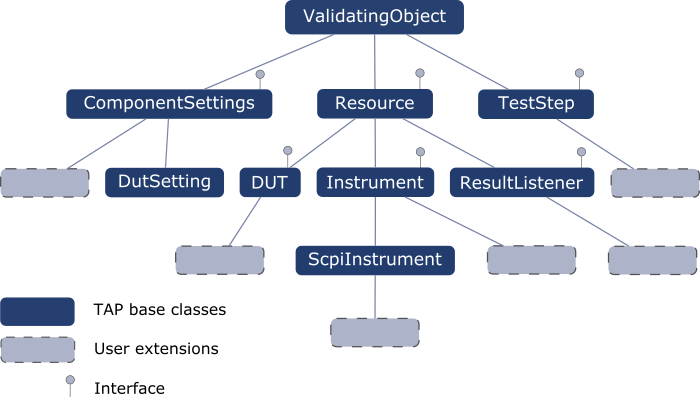
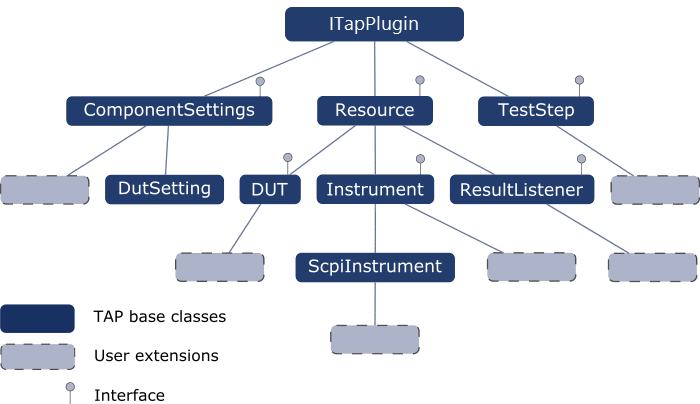
Moved plugin properties part to Development essentials

diff --git a/doc/Developer Guide/Development Essentials/Readme.md b/doc/Developer Guide/Development Essentials/Readme.md
@@ -3,17 +3,17 @@ Development Essentials
 
 ## OpenTAP Plugin Object Hierarchy
 
-At the very root of the OpenTAP plugin class hierarchy is the **ValidatingObject** class. Items in blue are OpenTAP base classes. The green, dotted rectangles are user extensions to those base classes.
+At the very root of the OpenTAP plugin class hierarchy is the **ITapPlugin** class. Items in blue are OpenTAP base classes. The green, dotted rectangles are user extensions to those base classes.
 
  ![](./ObjectHierarchy.png)
  
- Extending **ValidatingObject** are the **ComponentSettings**, **Resource**, and **TestStep** base classes. These are abstract classes and hence cannot be instantiated. They are used as base classes for other classes.
+ Extending **ITapPlugin** are the **ComponentSettings**, **Resource**, and **TestStep** base classes. These are abstract classes and hence cannot be instantiated. They are used as base classes for other classes.
  
 -	**ComponentSettings** is used for storing settings throughout the system. It contains properties to be set or lists of instruments, DUTs, and so on. ComponentSettings are available via the various Settings menus in the GUIs.
 
 -	**Resource** is a base class for the DUT, Instrument and ResultListener classes. Resources are often specified in the settings for a test step. Referencing a 'Resource' from a test step will cause it to automatically be opened upon test plan execution. 
 
--	**TestStep** does not inherit from Resource but inherits directly from ValidatingObject.
+-	**TestStep** does not inherit from Resource but inherits directly from ITapPlugin.
 
 ## Developing Using Interfaces
 
@@ -35,6 +35,25 @@ The `UserInput.Request` method takes three parameters:
 - `modal` - a Boolean that specifies if the user can interact with background objects if the dialog is open. If it is set to true the user will have to answer before doing anything else.
 
 To finalize the input you can use the [`SubmitAttribute`](../Attributes/Readme.md#submit-attribute). If this is used in a GUI with an enum, buttons appear that can submit or cancel the user input. In this case we recommend using the `SubmitAttribute` together with the [`LayoutAttribute`](../Attributes/Readme.md#layout-attribute). This helps to create a natural look-and-feel for your UI because it handles how the buttons are displayed. You can use this attribute to control the height, width and placement of the buttons. To give a title to your dialog box you can use the `Create Name` property.
+
+## Plugin Settings
+
+Adding user settings to a *TapPlugin*, such as a step setting for a test step, can be done with properties.
+These properties are visible and editable in the GUI Editor. Properties typically include instrument and DUT references, instrument and DUT settings, timing and limit information, etc. Defining these properties is a major part of plugin development.
+
+These properties can be configured using attributes, see [Attributes Used by OpenTAP](../Attributes/Readme.md#attributes-used-by-opentap).
+
+An example from the repeat step: 
+```cs
+[EnabledIf("Action",RepeatStepAction.Fixed_Count, HideIfDisabled = true)]
+[Display("Count", Order: 1, Description: "Set the fixed number of times to repeat.")]
+public uint Count { get; set; }
+```
+Turns into:
+
+![](./Properties.png)
+
+The SDK provides many examples of properties for test step development in the **`TAP_PATH\Packages\SDK\Examples\PluginDevelopment\TestSteps`** folder.
 
 ## Best Practices for Plugin Development
 

diff --git a/doc/Developer Guide/Test Step/Readme.md b/doc/Developer Guide/Test Step/Readme.md
@@ -63,10 +63,6 @@ namespace MyOpenTAPProject
     }
 }
 ```
-To allow user configuration of a test step, developers must add appropriate properties to the plugin code. These properties will very likely be visible and editable in the GUI Editor. Properties typically include instrument and DUT references, instrument and DUT settings, timing and limit information, etc. Defining these properties is a major part of plugin development.
-
-The SDK provides many examples of test step development in the **`TAP_PATH\Packages\SDK\Examples\PluginDevelopment\TestSteps`** folder. 
-
 ## TestStep Hierarchy
 
 Each TestStep object contains a list of TestSteps called *Child Steps*. A hierarchy of test steps can be built with an endless number of levels. The child steps:
